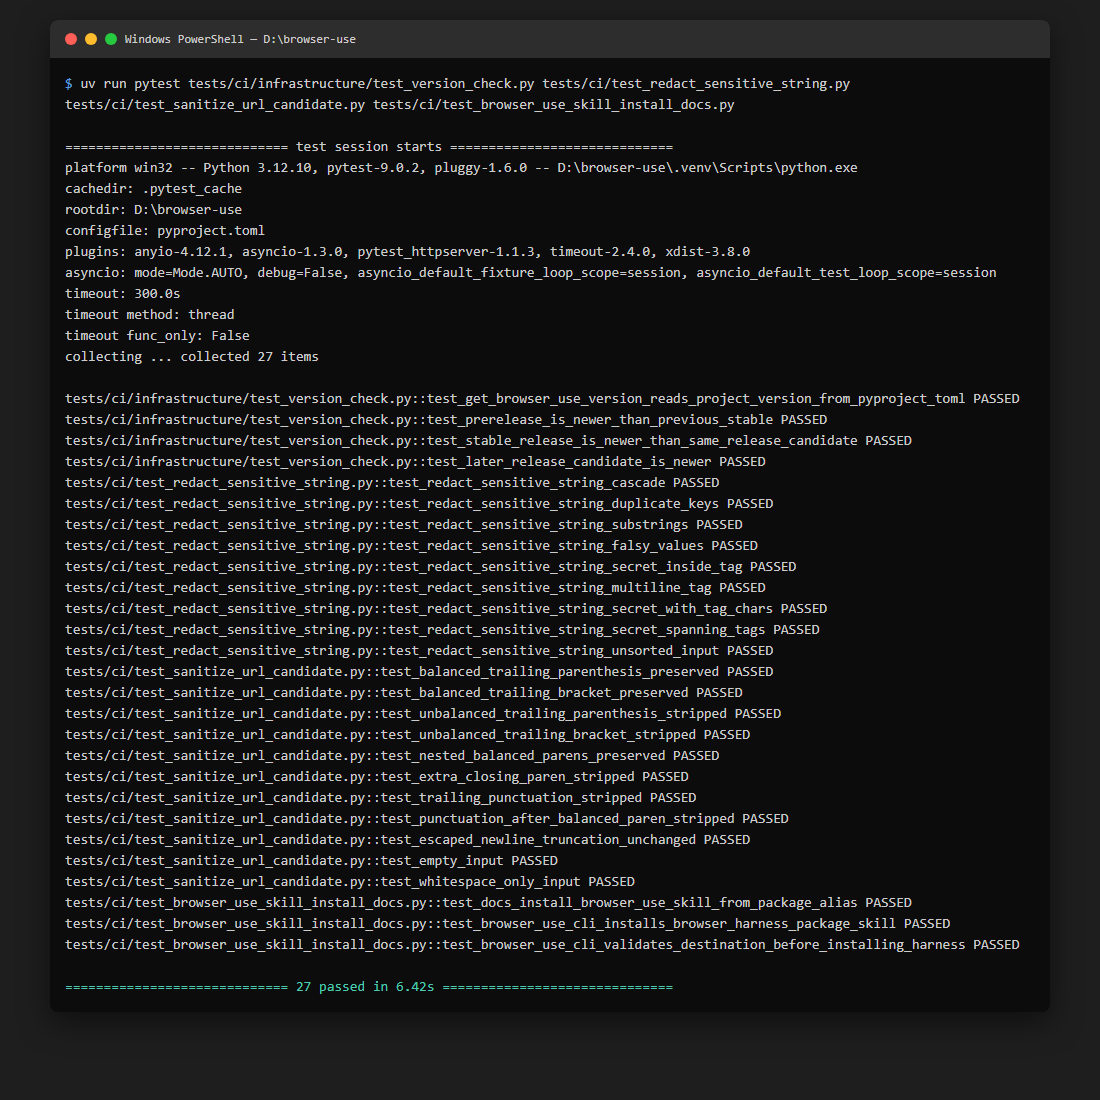
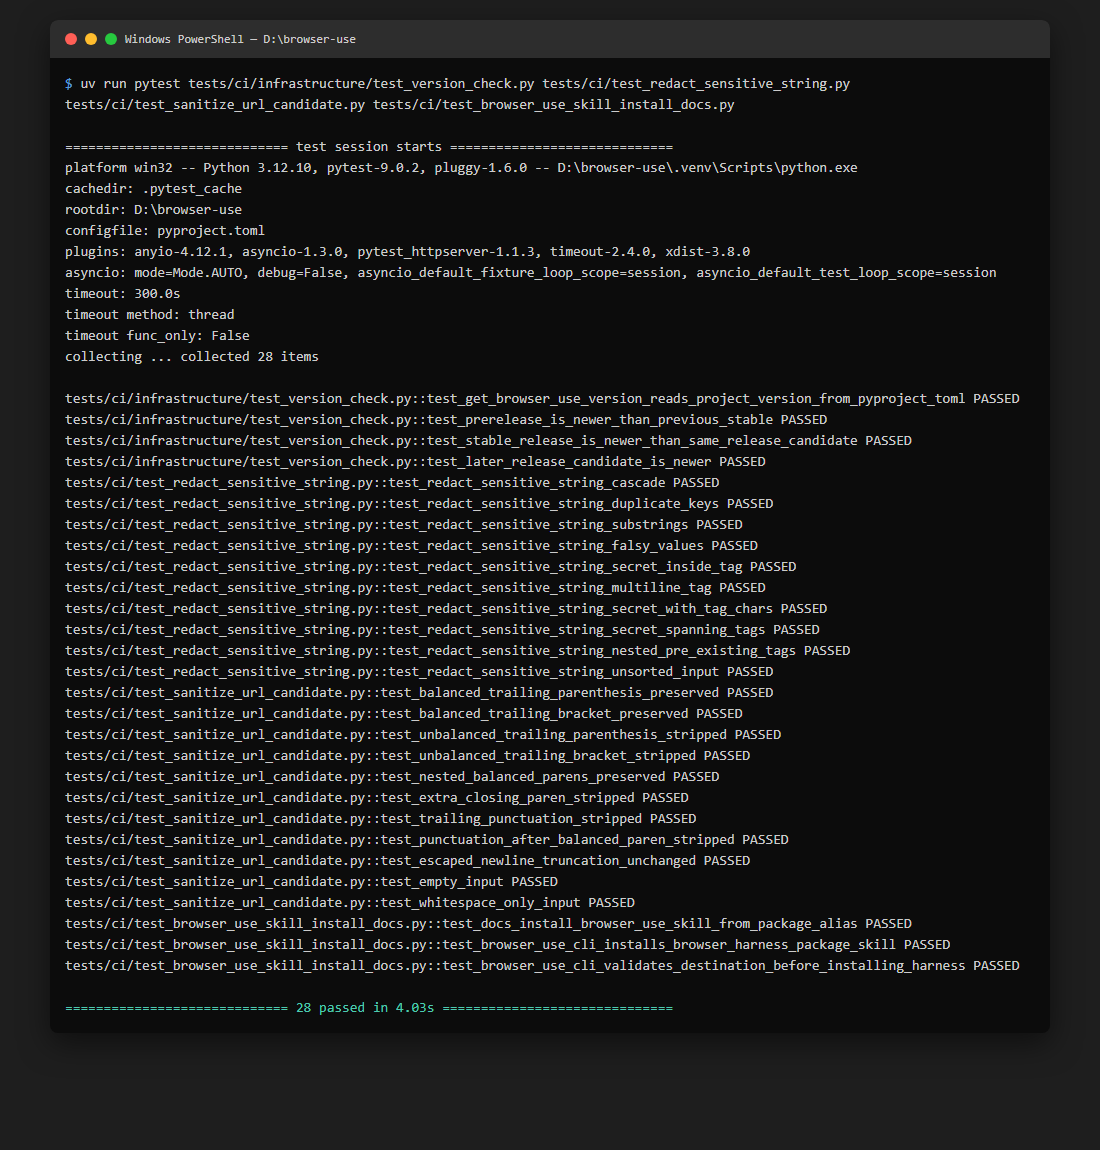
fix(utils): use balanced-pair parsing for existing <secret> tags
Replace the non-greedy regex split with a stack-based balanced parser so
nested pre-existing <secret>...</secret> tags are not truncated at the first
closing marker. Add a regression test for nested pre-existing tags.

Changed region(s): [[0.0618, 0.0309, 0.9273, 0.8964]]

diff --git a/browser_use/utils.py b/browser_use/utils.py
@@ -125,12 +125,54 @@ def _get_redact_pattern_and_mapping(
 	return pattern, replacement_mapping, plain_mapping
 
 
+def _split_secret_tags(value: str) -> list[str]:
+	"""Split *value* around balanced ``<secret>...</secret>`` pairs.
+
+	Returns a list of alternating segments: plain text, tag inner content, plain
+	text, ... Unclosed or stray tags are left as plain text.
+	"""
+	open_tag = '<secret>'
+	close_tag = '</secret>'
+	open_len = len(open_tag)
+	close_len = len(close_tag)
+
+	positions: list[tuple[int, int]] = []
+	stack: list[int] = []
+	i = 0
+	n = len(value)
+
+	while i < n:
+		if value.startswith(open_tag, i):
+			stack.append(i)
+			i += open_len
+		elif value.startswith(close_tag, i):
+			if stack:
+				start = stack.pop()
+				if not stack:
+					positions.append((start, i + close_len))
+			i += close_len
+		else:
+			i += 1
+
+	parts = []
+	last = 0
+	for start, end in positions:
+		parts.append(value[last:start])
+		parts.append(value[start + open_len : end - close_len])
+		last = end
+	parts.append(value[last:])
+
+	return parts
+
+
 def redact_sensitive_string(value: str, sensitive_values: dict[str, str]) -> str:
 	"""Replace sensitive values with placeholders, longest matches first to avoid partial leaks.
 
 	Raw secrets are matched in a single pass via a cached literal-only regex, and
 	pre-existing ``<secret>...</secret>`` tags are split out beforehand so their
-	inner contents are redacted separately without re-scanning for tags.
+	inner contents are redacted separately without re-scanning for tags. Balanced
+	tag pairs are respected, so nested or overlapping tags are not broken at the
+	first closing marker.
 	"""
 	if not isinstance(value, str) or not value or not sensitive_values:
 		return value
@@ -141,15 +183,15 @@ def redact_sensitive_string(value: str, sensitive_values: dict[str, str]) -> str
 	if not pattern:
 		return value
 
-	# Split on existing tags: odd-indexed parts are tag contents (between the
-	# <secret> and </secret> markers), even-indexed parts are unredacted text.
-	parts = re.split(r'(<secret>[\s\S]*?</secret>)', value)
+	# Split on balanced existing tags: odd-indexed parts are tag contents, even
+	# parts are unredacted text.
+	parts = _split_secret_tags(value)
 	for i, part in enumerate(parts):
 		if i % 2 == 1:
 			# Existing tag: redact raw secrets inside it, longest-first.
-			inner = part[len('<secret>') : -len('</secret>')]
-			if not inner:
+			if not part:
 				continue
+			inner = part
 			for secret, keys_str in plain_mapping:
 				if secret in inner:
 					inner = inner.replace(secret, keys_str)

diff --git a/tests/ci/test_redact_sensitive_string.py b/tests/ci/test_redact_sensitive_string.py
@@ -132,6 +132,22 @@ def test_redact_sensitive_string_secret_spanning_tags():
 	assert 'abc</secret>xyz<secret>def' not in actual
 
 
+def test_redact_sensitive_string_nested_pre_existing_tags():
+	"""
+	Verify that nested pre-existing <secret> tags are parsed using balanced
+	boundaries, not at the first closing tag. The outer tag's inner content
+	(including nested tags) should be redacted and re-wrapped correctly.
+	"""
+	sensitive_values = {
+		'password': 'supersecret',
+	}
+	input_str = '<secret>outer <secret>supersecret</secret> inner</secret>'
+	expected = '<secret>outer <secret>password</secret> inner</secret>'
+
+	actual = redact_sensitive_string(input_str, sensitive_values)
+	assert actual == expected
+
+
 def test_redact_sensitive_string_unsorted_input():
 	"""
 	Verify that when keys are supplied in non-alphabetical order and share a
